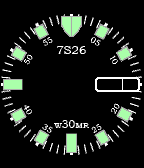
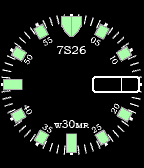
Version 1.5
Added configuration for black dial option

Changed region(s): [[0.6389, 0.4464, 0.9722, 0.5655]]

diff --git a/src/main.c b/src/main.c
@@ -49,13 +49,15 @@
 
 /* windows & layers */
 static Window *main_window;
+Layer *hand_group_layer;
 Layer *circle_layer;
 BitmapLayer *dial_layer;
 RotBitmapLayer *minute_layer, *hour_layer, *second_layer;
 TextLayer *day_text_layer, *date_text_layer;
 
 /* paths, fonts & bitmaps */
-GBitmap *minute_hand_map, *hour_hand_map, *second_hand_map, *dial_map;
+GBitmap *minute_hand_map_o, *hour_hand_map_o, *second_hand_map_o, *dial_map_o;
+GBitmap *minute_hand_map_b, *hour_hand_map_b, *second_hand_map_b, *dial_map_b;
 GFont eurostile_font;
 
 /* variables */
@@ -65,6 +67,7 @@ bool drawing_hands = false;
 int hours, minutes, seconds, hours_display;
 int hours_angle = -1;			// set to -1 as default so we draw on load
 int minutes_angle = -1;		// set to -1 as default so we draw on load
+bool dial_is_black;
 
 //int temp_angle = 0;
 
@@ -75,7 +78,7 @@ int minutes_angle = -1;		// set to -1 as default so we draw on load
 
 void circle_update_proc(Layer *l, GContext *ctx) {
 	
-	// if DCW_DEBUG is defined we will draw cross-hairs and two circles, otherwise the circles as required
+	// if DCW_DEBUG is defined we will draw cross-hairs and two circles, otherwise the "pommel"
 	#ifdef DCW_DEBUG
 		graphics_context_set_fill_color(ctx, GColorWhite);
 		graphics_context_set_stroke_color(ctx, GColorWhite);
@@ -84,11 +87,21 @@ void circle_update_proc(Layer *l, GContext *ctx) {
 		graphics_draw_line(ctx, GPoint(ROT_CENTRE_X, ROT_CENTRE_Y - 4), GPoint(ROT_CENTRE_X, ROT_CENTRE_Y + 4));
 		graphics_draw_line(ctx, GPoint(ROT_CENTRE_X - 4, ROT_CENTRE_Y), GPoint(ROT_CENTRE_X + 4, ROT_CENTRE_Y));
 	#else
-		graphics_context_set_fill_color(ctx, CIRCLE_FILL_COLOUR);
-		graphics_context_set_stroke_color(ctx, CIRCLE_STROKE_COLOUR);
-		graphics_fill_circle(ctx, GPoint(ROT_CENTRE_X, ROT_CENTRE_Y), CENTRE_DIA);
+		if(dial_is_black) {
+			graphics_context_set_fill_color(ctx, CIRCLE_STROKE_COLOUR);
+			graphics_context_set_stroke_color(ctx, CIRCLE_FILL_COLOUR);
+			graphics_fill_circle(ctx, GPoint(ROT_CENTRE_X, ROT_CENTRE_Y), CENTRE_DIA + 1);
+			graphics_draw_circle(ctx, GPoint(ROT_CENTRE_X, ROT_CENTRE_Y), CENTRE_DIA + 1);
+		} else {
+			graphics_context_set_fill_color(ctx, CIRCLE_FILL_COLOUR);
+			graphics_context_set_stroke_color(ctx, CIRCLE_STROKE_COLOUR);
+			graphics_fill_circle(ctx, GPoint(ROT_CENTRE_X, ROT_CENTRE_Y), CENTRE_DIA);
+		}
 		graphics_draw_circle(ctx, GPoint(ROT_CENTRE_X, ROT_CENTRE_Y), 1);
 	#endif
+}
+
+void dummy_update_proc(Layer *l, GContext *ctx) {
 }
 
 int get_off_x() {
@@ -128,7 +141,6 @@ void finesse_hands(RotBitmapLayer *l) {
 	r.origin.x += get_off_x();
 	r.origin.y += get_off_y();
 	layer_set_frame((Layer *)l, r);
-
 }
 
 /*****************************************************/
@@ -184,6 +196,113 @@ char *day_in_caps(char *day) {
 	}
 }
 
+/*****************************************************/
+/********** HELPERS FOR B&W / DRAWING LAYERS *********/	
+/*****************************************************/
+
+/* set all the hands to be hidden */
+void hide_all_hands() {
+	layer_set_hidden((Layer *)minute_layer, true);
+	layer_set_hidden((Layer *)hour_layer, true);
+	layer_set_hidden((Layer *)second_layer, true);
+}
+
+/* helper to create all the gbitmaps */
+void load_bitmaps() {
+		dial_map_b = gbitmap_create_with_resource(RESOURCE_ID_DIAL_B);
+		second_hand_map_b = gbitmap_create_with_resource(RESOURCE_ID_SECOND_HAND_B);
+		minute_hand_map_b = gbitmap_create_with_resource(RESOURCE_ID_MINUTE_HAND_B);
+		hour_hand_map_b = gbitmap_create_with_resource(RESOURCE_ID_HOUR_HAND_B);
+		dial_map_o = gbitmap_create_with_resource(RESOURCE_ID_DIAL);
+		hour_hand_map_o = gbitmap_create_with_resource(RESOURCE_ID_HOUR_HAND);
+		minute_hand_map_o = gbitmap_create_with_resource(RESOURCE_ID_MINUTE_HAND);
+		second_hand_map_o = gbitmap_create_with_resource(RESOURCE_ID_SECOND_HAND);
+}
+
+/* helper to destroy all the gbitmaps */
+void destroy_bitmaps() {
+	gbitmap_destroy(dial_map_b);
+	gbitmap_destroy(dial_map_o);
+	gbitmap_destroy(second_hand_map_b);
+	gbitmap_destroy(second_hand_map_o);
+	gbitmap_destroy(minute_hand_map_b);
+	gbitmap_destroy(minute_hand_map_o);
+	gbitmap_destroy(hour_hand_map_b);
+	gbitmap_destroy(hour_hand_map_o);
+}
+
+/* helpers to get the correct bitmap for dial colour */
+GBitmap* active_dial_map() {
+	if(dial_is_black) {
+		return dial_map_b;
+	} else {
+		return dial_map_o;
+	}
+}
+
+GBitmap* active_hour_map() {
+	if(dial_is_black) {
+		return hour_hand_map_b;
+	} else {
+		return hour_hand_map_o;
+	}
+}
+
+GBitmap* active_minute_map() {
+	if(dial_is_black) {
+		return minute_hand_map_b;
+	} else {
+		return minute_hand_map_o;
+	}
+}
+
+GBitmap* active_second_map() {
+	if(dial_is_black) {
+		return second_hand_map_b;
+	} else {
+		return second_hand_map_o;
+	}
+}
+
+/* helper routine to set up the dial and hands, bool whether we need to destroy rotbitmaplayers */
+void initialise_dial_and_hands(bool destroy_required) {
+	
+	strcpy(date_buff, "00");
+	strcpy(day_buff, "ABCD");
+	drawing_hands = false;
+	hours_angle = -1;			// set to -1 as default so we draw on load
+	minutes_angle = -1;		// set to -1 as default so we draw on load
+	
+	// if destroy_required true, destroy the hand rotbitmaplayers
+	if(destroy_required) {
+		rot_bitmap_layer_destroy(hour_layer);
+		rot_bitmap_layer_destroy(minute_layer);
+		rot_bitmap_layer_destroy(second_layer);
+	}
+	
+	// set the dial layer
+	bitmap_layer_set_bitmap(dial_layer, active_dial_map());
+	
+	// set up the rotbitmaplayers
+	hour_layer = rot_bitmap_layer_create(active_hour_map());
+	minute_layer = rot_bitmap_layer_create(active_minute_map());
+	second_layer = rot_bitmap_layer_create(active_second_map());
+	rot_bitmap_set_compositing_mode(hour_layer, GCompOpSet);
+	rot_bitmap_set_compositing_mode(minute_layer, GCompOpSet);
+	rot_bitmap_set_compositing_mode(second_layer, GCompOpSet);
+	rot_bitmap_set_src_ic(minute_layer, GPoint(MIN_ROT_X, MIN_ROT_Y));
+	rot_bitmap_set_src_ic(second_layer, GPoint(SEC_ROT_X, SEC_ROT_Y));
+	rot_bitmap_set_src_ic(hour_layer, GPoint(HR_ROT_X, HR_ROT_Y));
+	
+	// add the rotbitmaplayers
+	layer_add_child(hand_group_layer, (Layer *)hour_layer);
+	layer_add_child(hand_group_layer, (Layer *)minute_layer);
+	layer_add_child(hand_group_layer, (Layer *)second_layer);
+	
+	// hide the hands
+	hide_all_hands();
+}
+
 
 /*****************************************************/
 /******************* TICK HANDLER ********************/	
@@ -213,6 +332,13 @@ void tick_handler(struct tm * tick_time, TimeUnits units_changed) {
 	// update date if either it's not displaying OR this is a new day
 	if(strcmp(date_buff, "00") == 0 || (hours == 0 && minutes == 0 && seconds == 0)) {
 		
+		// set the colour
+		if(dial_is_black) {
+			text_layer_set_text_color(date_text_layer, GColorWhite);
+		} else {
+			text_layer_set_text_color(date_text_layer, GColorBlack);
+		}
+		
 		// set the date to show
 		strftime(date_buff, sizeof("00"), "%e", tick_time);
 		
@@ -237,8 +363,10 @@ void tick_handler(struct tm * tick_time, TimeUnits units_changed) {
 		text_layer_set_text(day_text_layer, day_buff);
 		if(strcmp(day_buff, "SUN ") == 0) {
 			text_layer_set_text_color(day_text_layer, GColorRed);
-		} else if(strcmp(day_buff, "SAT ") == 0) {
+		} else if(strcmp(day_buff, "SAT ") == 0 && !dial_is_black) {
 			text_layer_set_text_color(day_text_layer, GColorBlue);
+		} else if(dial_is_black){
+			text_layer_set_text_color(day_text_layer, GColorWhite);
 		} else {
 			text_layer_set_text_color(day_text_layer, GColorBlack);
 		}		
@@ -252,11 +380,13 @@ void tick_handler(struct tm * tick_time, TimeUnits units_changed) {
 		text_layer_set_text(day_text_layer, day_buff);
 		if(strcmp(day_buff, "SUN ") == 0) {
 			text_layer_set_text_color(day_text_layer, GColorRed);
-		} else if(strcmp(day_buff, "SAT ") == 0) {
+		} else if(strcmp(day_buff, "SAT ") == 0 && !dial_is_black) {
 			text_layer_set_text_color(day_text_layer, GColorBlue);
+		} else if(dial_is_black){
+			text_layer_set_text_color(day_text_layer, GColorWhite);
 		} else {
 			text_layer_set_text_color(day_text_layer, GColorBlack);
-		}
+		}	
 	#endif
 		
 	// check whether we need to re-draw hours hand
@@ -293,6 +423,52 @@ void tick_handler(struct tm * tick_time, TimeUnits units_changed) {
 
 
 /*****************************************************/
+/********* COMMUNICATION HANDLER CALLBACKS ***********/	
+/*****************************************************/
+
+/*inbox received callback, deal with successful receipt of message from phone */
+static void inbox_received_callback(DictionaryIterator *iterator, void *context) {
+
+	// define our temporary buffer first
+	char colour_buffer[7];
+	
+	// read first item from the dictionary
+	Tuple *t = dict_read_first(iterator);
+	
+	// there's only going to be one key at the moment ...
+	while(t != NULL) {
+		
+		switch(t->key) {
+			
+			// if it's the bluetooth-showing item
+			case KEY_DIAL_COLOUR:
+				// use persist_log_bool to log value and use the return value (1 true, 0 false, -1 error)
+				snprintf(colour_buffer, sizeof(colour_buffer), "%s", t->value->cstring );
+				APP_LOG(APP_LOG_LEVEL_INFO, "Colour received: %s", colour_buffer);
+				if(strcmp(colour_buffer, "orange") == 0) {
+					dial_is_black = false;
+				} else {
+					dial_is_black = true;
+				}
+				persist_write_bool(PERSIST_DIAL_COLOUR, dial_is_black);
+				initialise_dial_and_hands(true);
+				break;		
+		}
+		
+		// Look for next item
+    t = dict_read_next(iterator);
+	}
+}
+
+/* inbox dropped callback - logs a message that there's been an error */
+static void inbox_dropped_callback(AppMessageResult reason, void *context) {
+	APP_LOG(APP_LOG_LEVEL_ERROR, "Message dropped");
+}
+
+
+
+
+/*****************************************************/
 /*************** MAIN WINDOW HANDLERS ****************/	
 /*****************************************************/
 
@@ -305,38 +481,19 @@ static void main_window_load(Window *w) {
 	
 	// init our general layers
 	GRect r = GRect(0,0,SCREEN_WIDTH,SCREEN_HEIGHT);
+	hand_group_layer = layer_create(r);
 	circle_layer = layer_create(r);
 	
 	// set update procs
 	layer_set_update_proc(circle_layer, circle_update_proc);
-		
-	// init our gpaths
+	layer_set_update_proc(hand_group_layer, dummy_update_proc);
 	
-	// init our bitmaps
-	dial_map = gbitmap_create_with_resource(RESOURCE_ID_DIAL);
-	minute_hand_map = gbitmap_create_with_resource(RESOURCE_ID_MINUTE_HAND);
-	hour_hand_map = gbitmap_create_with_resource(RESOURCE_ID_HOUR_HAND);
-	second_hand_map = gbitmap_create_with_resource(RESOURCE_ID_SECOND_HAND);
+	// load the gbitmaps
+	load_bitmaps();
 	
-	// create rotbitmaplayers
-	minute_layer = rot_bitmap_layer_create(minute_hand_map);
-	hour_layer = rot_bitmap_layer_create(hour_hand_map);
-	second_layer = rot_bitmap_layer_create(second_hand_map);
-	
-	// set rotation points
-	rot_bitmap_set_src_ic(minute_layer, GPoint(MIN_ROT_X, MIN_ROT_Y));
-	rot_bitmap_set_src_ic(hour_layer, GPoint(HR_ROT_X, HR_ROT_Y));
-	rot_bitmap_set_src_ic(second_layer, GPoint(SEC_ROT_X, SEC_ROT_Y));
-	
-	// set compositing modes
-	rot_bitmap_set_compositing_mode(minute_layer, GCompOpSet);
-	rot_bitmap_set_compositing_mode(hour_layer, GCompOpSet);
-	rot_bitmap_set_compositing_mode(second_layer, GCompOpSet);	
-	
-	// create background bitmaplayer
+	// set the bitmap layers up
 	dial_layer = bitmap_layer_create(r);
-	bitmap_layer_set_bitmap(dial_layer, dial_map);
-		
+	
 	// load the custom text
 	eurostile_font = fonts_load_custom_font(resource_get_handle(RESOURCE_ID_EUROSTILE_12));
 	
@@ -358,30 +515,32 @@ static void main_window_load(Window *w) {
 	layer_add_child(w_layer, (Layer *)dial_layer);
 	layer_add_child(w_layer, text_layer_get_layer(day_text_layer));
 	layer_add_child(w_layer, text_layer_get_layer(date_text_layer));
-	layer_add_child(w_layer, (Layer *)hour_layer);
-	layer_add_child(w_layer, (Layer *)minute_layer);
-	layer_add_child(w_layer, (Layer *)second_layer);
+	layer_add_child(w_layer, hand_group_layer);
 	layer_add_child(w_layer, circle_layer);
 	
-	// hide the hand layers until we've placed them!
-	layer_set_hidden((Layer *)minute_layer, true);
-	layer_set_hidden((Layer *)hour_layer, true);
-	layer_set_hidden((Layer *)second_layer, true);
+	// read persistant state for black dial and set accordingly
+	if(persist_exists(PERSIST_DIAL_COLOUR)) {
+		dial_is_black = persist_read_bool(PERSIST_DIAL_COLOUR);
+	} else {
+		dial_is_black = false;
+		persist_write_bool(PERSIST_DIAL_COLOUR, dial_is_black);
+	}
+	
+	// set the dial and create/set up the hands
+	initialise_dial_and_hands(false);
 }
 
 static void main_window_unload(Window *w) {
 	// destroy layers
+	bitmap_layer_destroy(dial_layer);
 	rot_bitmap_layer_destroy(hour_layer);
 	rot_bitmap_layer_destroy(second_layer);
-	layer_destroy(circle_layer);
 	rot_bitmap_layer_destroy(minute_layer);
-	bitmap_layer_destroy(dial_layer);
+	layer_destroy(hand_group_layer);
+	layer_destroy(circle_layer);
 	
 	// destroy gpaths & gbitmaps
-	gbitmap_destroy(minute_hand_map);
-	gbitmap_destroy(hour_hand_map);
-	gbitmap_destroy(second_hand_map);
-	gbitmap_destroy(dial_map);
+	destroy_bitmaps();
 	
 	// destroy text layers
 	text_layer_destroy(date_text_layer);
@@ -405,6 +564,13 @@ static void init() {
 		.load = main_window_load,
 		.unload = main_window_unload
 	});	
+	
+	// register appMessage handlers
+	app_message_register_inbox_received(inbox_received_callback);
+	app_message_register_inbox_dropped(inbox_dropped_callback);
+	
+	// open AppMessage
+	app_message_open(app_message_inbox_size_maximum(), app_message_outbox_size_maximum());
 	
 	// show the Window on the watch, with animated = true
 	window_stack_push(main_window, true);
